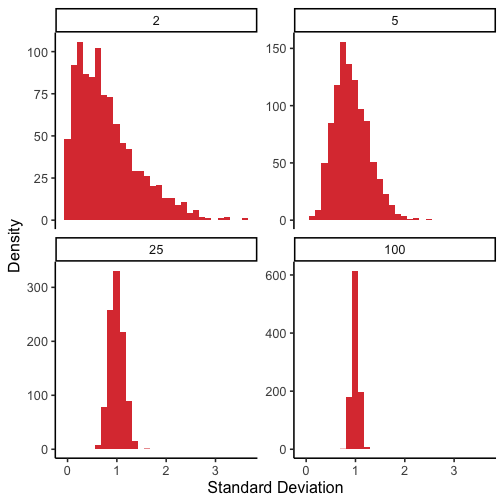
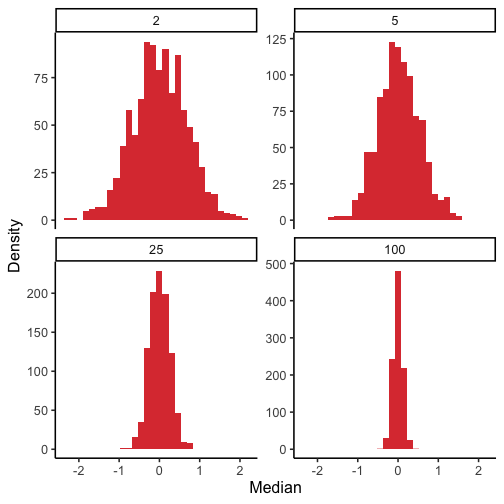
add to sampling slides

diff --git a/lectures/9-sampling.html b/lectures/9-sampling.html
@@ -173,6 +173,35 @@ PLAY WITH THIS!
 [Sampling distribution example](http://shiny.calpoly.sh/Sampling_Distribution/)
 
 ---
+class: inverse, middle, center
+
+# Sampling
+### Part 2
+---
+
+## Statistical Inference
+
+We want to learn from incomplete or imperfect data. 
+
+1. *Sampling model*: learn something about the population, which we need to estimate from a sample
+
+2. *Measurement error model*: learn about some underlying pattern, but the there is measurement error
+
+3. *Model error*: "inevitable imperfections of models that we apply to real data" 
+
+.tiny[*Regression and Other Stories*, Gelman, Hill, &amp; Vehtari]
+
+---
+## Sampling Distribution
+
+We can have a sampling distribution of data. All of the possible datasets that could have been observed if you ran the study a gajillion times.
+
+This is **generative**. If you knew the underlying process, you could create (or generates) data. 
+
+We could have collected the mean for each of those gajillion times. 
+
+If we plot those gajillion means, then we have a sampling distribution of an **estimate**. 
+---
 ## Sampling Distribution Approximates the Normal
 
 One of the most important discoveries in statistics is that the sampling distributions of many statistics are approximately **normal** even when the sample (and population) distributions are not.
@@ -198,14 +227,17 @@ Regardless of the CLT, if the data are skewed, we might wonder if the mean is th
 
 .left-column[Quite a few sample statistics approach normality as sample size increases.
 
-Here is the sample standard deviation from a normal distribution with `\(\sigma = 1\)`.
+Here is the sample median from a normal distribution with `\(\sigma = 1\)`.
 ]
 
 ![](9-sampling_files/figure-html/unnamed-chunk-3-1.png)&lt;!-- --&gt;
 
 ---
 
-.left-column[And the range.]
+.left-column[And the range.
+
+Note that the sampling distribution of `\(\sigma^2\)` is not normally distributed. It is `\(\chi^2\)` distributed. More on this later!
+]
 
 ![](9-sampling_files/figure-html/unnamed-chunk-4-1.png)&lt;!-- --&gt;
 ???
@@ -266,12 +298,12 @@ Second term:
 [insert long proof here...]
 
 `$$E(\bar{x}^2) = \frac{\sigma_M^{2}}{N} + \mu^2$$`
-
 ---
 ## Variability in the Sampling Distribution
 
 **Standard Error of the Mean**
   - The standard deviation of the sampling distribution
+  - Gives us a sense of **uncertainty** about mean*
   - Directly related to the variability of the underlying data:
 
 `$$\sigma_{m} = \frac{\sigma_X}{\sqrt{N}}$$`
@@ -290,12 +322,14 @@ We do not know `\(\sigma\)` but we can estimate it based on the sample statistic
 
 `$$\hat{\sigma} = s = \sqrt{\frac{\sum(x - \bar{x})^2}{N-1}}$$`
 
-This is the sample estimate of the population standard deviation.  This is an unbiased estimate of `\(\sigma\)` and relies on the sample mean, which is an unbiased estimate of `\(\mu\)`.
+This is an unbiased estimate of `\(\sigma\)` (why?) and relies on the sample mean, which is an unbiased estimate of `\(\mu\)`.
 
-This is different from the sample standard deviation, which divides the sum of squares by `\(N\)` rather than `\(N-1\)`.
+--
+
+This is different from the uncorrected sample standard deviation, which divides the sum of squares by `\(N\)` rather than `\(N-1\)`.
 
 `$$SEM = \sigma_M = \frac{\hat{\sigma}}{\sqrt{N}} = \frac{\text{Estimate of pop SD}}{\sqrt{N}}$$`
-.small[(Most methods of calculating standard deviation assume you're estimating the popluation from a sample and correct for bias.)]
+.small[(Most methods of calculating standard deviation assume you're estimating the population from a sample and correct for bias.)]
 
 ---
 ## Making Statements
@@ -312,7 +346,7 @@ The key is that we have a sampling distribution of the mean with a standard devi
 ---
 ## Confidence Intervals
 
-The sampling distribution of the mean has variability, represented by the SEM, reflecting uncertainty in the sample mean as an estimate of the population mean.
+The sampling distribution of the mean has variability, represented by the SEM, **reflecting uncertainty in the sample mean as an estimate of the population mean**.
 
 The assumption of normality allows us to construct an interval within which we have good reason to believe a sample mean will fall if it comes from a particular population:
 
@@ -393,6 +427,11 @@ Calculate CI using for each sample using `\(\sigma\)`.
 
 ![](9-sampling_files/figure-html/unnamed-chunk-6-1.png)&lt;!-- --&gt;
 
+---
+
+## A better simulation...
+
+[https://rpsychologist.com/d3/ci/](https://rpsychologist.com/d3/ci/)
 ---
 
 In the past, my classroom exams (aggregating over many classes) have a mean of 90 and a standard deviation of 8.
